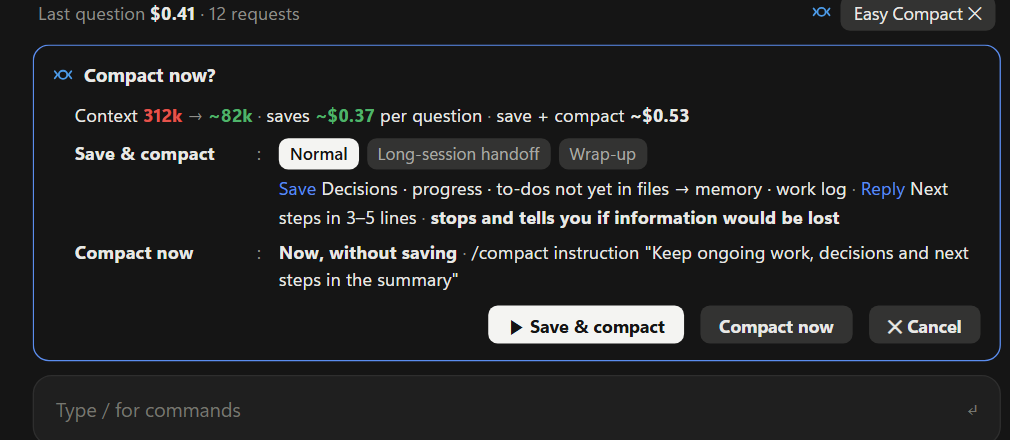
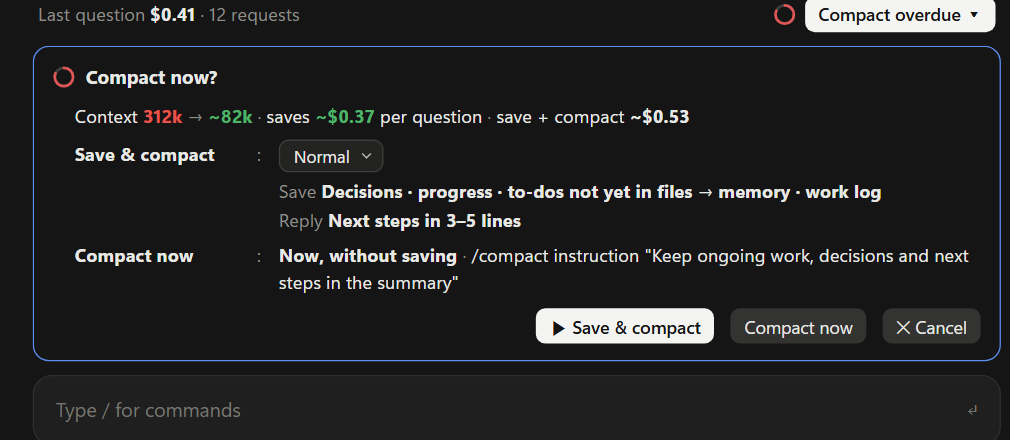
README: screenshots, demo GIF and demo video for the 0.6 screens (gauge, settings like the app's, compact range in Overview)

diff --git a/README.md b/README.md
@@ -181,7 +181,7 @@ Claude Code re-reads the whole context on every request — a session at 300k pa
 
 ## Demo · 60 s
 
-https://github.com/user-attachments/assets/0926dba9-ce9f-42fe-a3c0-fef808131a56
+https://github.com/user-attachments/assets/f357e96b-41fe-496e-8a1c-4e3b05c8c397
 
 ## Features
 
@@ -192,7 +192,7 @@ https://github.com/user-attachments/assets/0926dba9-ce9f-42fe-a3c0-fef808131a56
 **Context, next-request cost and this question's cost — updated after every request.**
 Also on the bar: this session's cost so far (yellow · orange · red at $10 · $50 · $100 — change them in Settings), your 5-hour and 7-day plan usage, minutes left on the prompt cache (`cache expires in 42m`), the context gauge and the **Compact** button, and the window buttons (top right). It starts on the **Simple** screen: one line with the session cost, context, cache and Compact. Turn on today · this month in Settings to add every session on this PC — the pane's **Overview** tab always shows them at the top in the Detailed view. For everything, pick **Detailed** under Settings → **Screen**; to choose single parts, **Custom** → **What the bar shows** — the bar preview follows as you choose. The order of the money cells (Session · Today · This month) is **Cost order**, under the preview. Still too much? Shrink the bar to one line or fold it until it's time to compact — see [Hide, fold, bring it back](#hide-fold-bring-it-back). Subagent spending shows up as `1 agent $X included`.
 
-<img src="docs/img/screen.png" width="520" alt="Settings → Screen: Simple · Detailed · Custom, who each is for, and a preview of the bar and the question-cost chip">
+<img src="docs/img/screen.png" width="520" alt="Settings → Screen type: Simple · Detailed · Custom, a “?” on each row, and a preview of the bar and the question-cost chip">
 
 **Settings → Screen: Simple, Detailed or Custom.** The preview shows the bar and the question-cost chip as you choose, with this session's values. The screen type sets the bar's parts, Overview's first view and whether the chip under each answer shows details (**Answer chip details**); Custom lets you pick each one.
 
@@ -212,7 +212,7 @@ Also on the bar: this session's cost so far (yellow · orange · red at $10 · $
 
 ### 3. Know when to compact
 
-<img src="docs/img/settings.png" width="640" alt="Settings: a cost table per compact size with the best range starred">
+<img src="docs/img/settings.png" width="640" alt="Overview → Compact: the compact range dropdown and the Cost by size table, colored by verdict, with the picked range outlined">
 
 **Pick a compact range in the Overview tab.** The Simple view has the range dropdown in the *This session* card, with one line under it: the verdict (★ Best · good · fair · not advised) and the cost of one read, one question and a cold cache. The Detailed view adds the suggested and not-advised ranges and the **Cost by size** table in the Compact card — one read and one question per size (10 requests assumed × the current model's rates); a wider pane adds the cold-cache cost and how far each size is from the cheapest (★) — a narrow one drops the least important columns first. Cell colors are the verdicts and the picked range is outlined. Picking applies to all sessions at once, and **Enter a size…** at the end of the dropdown sets a single size by number.
 
